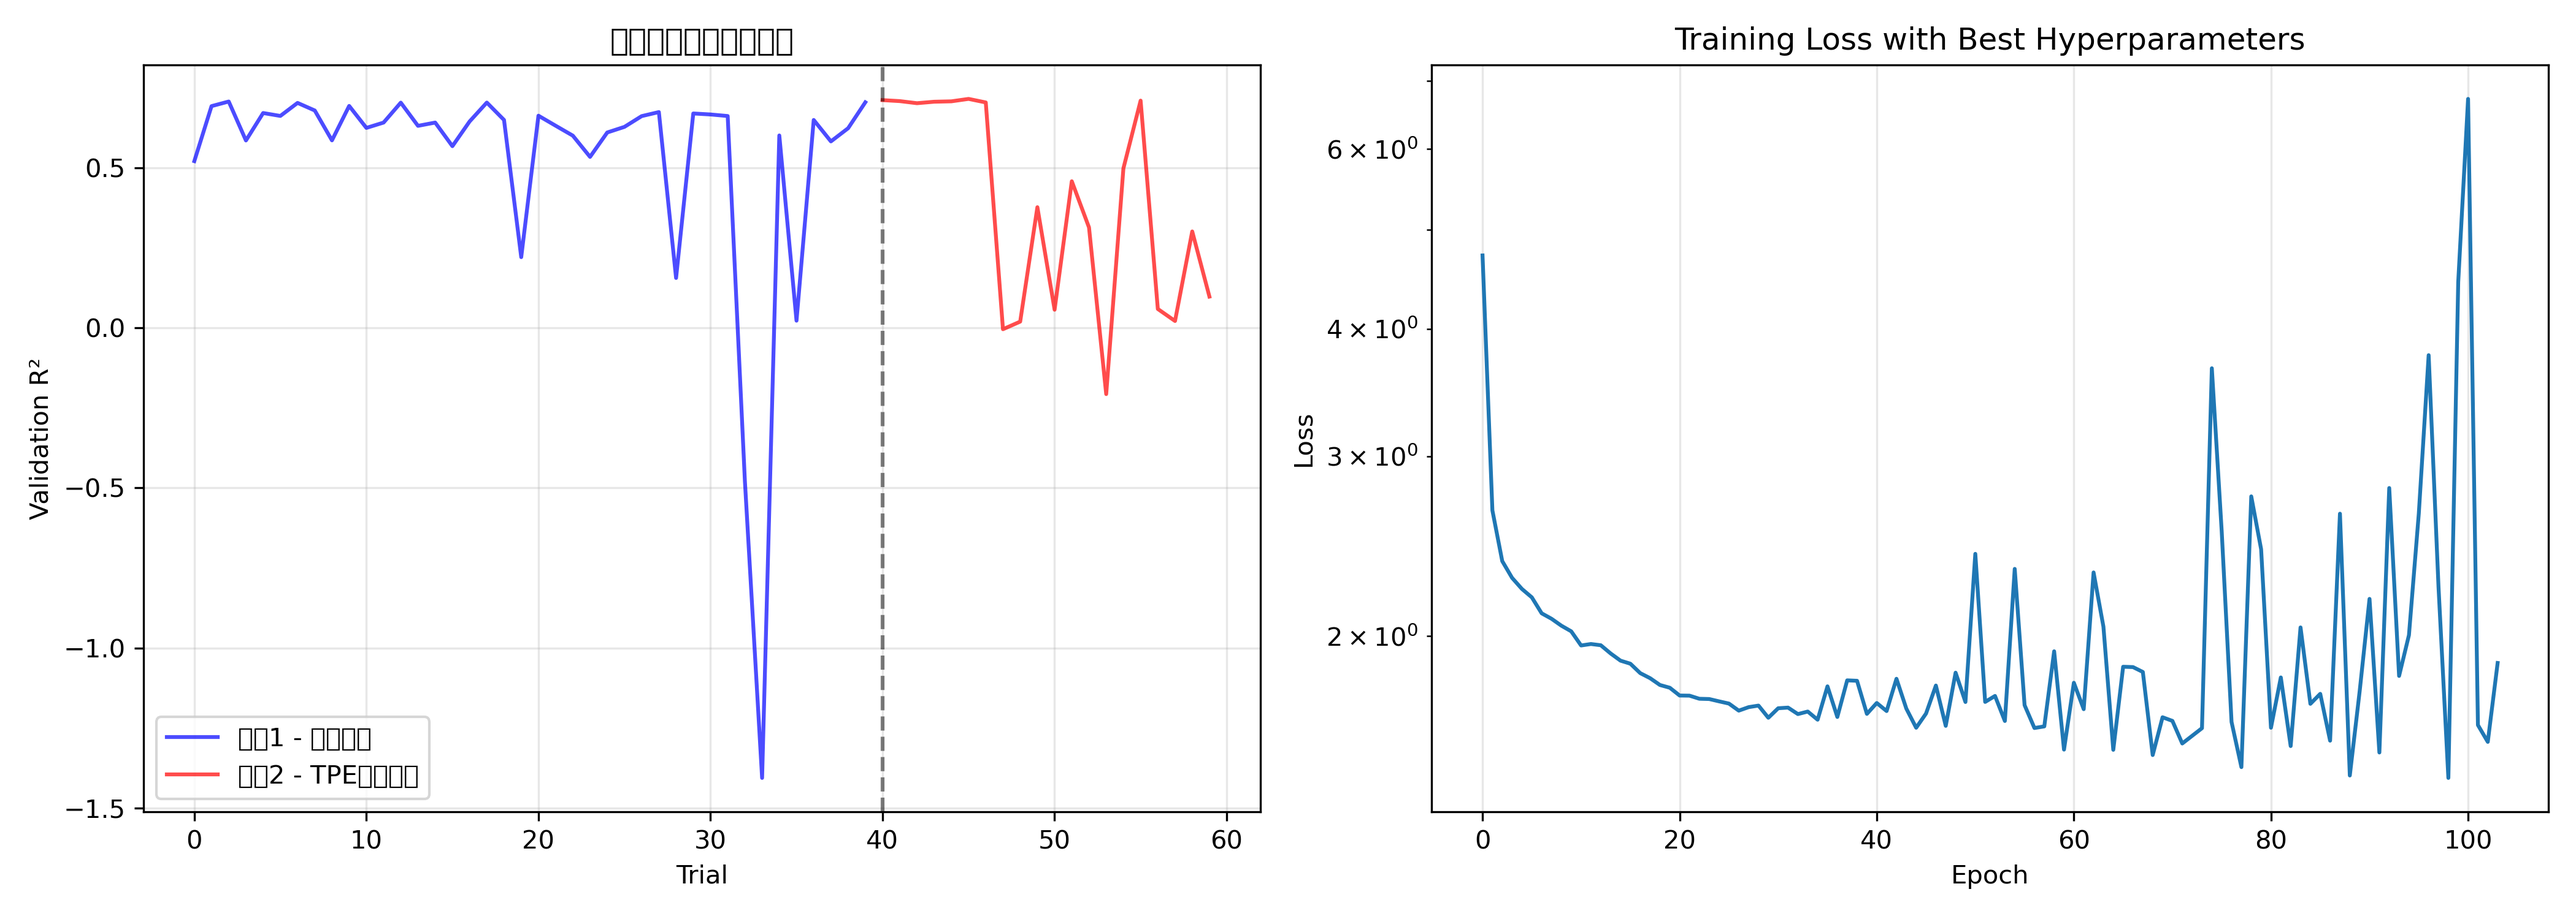
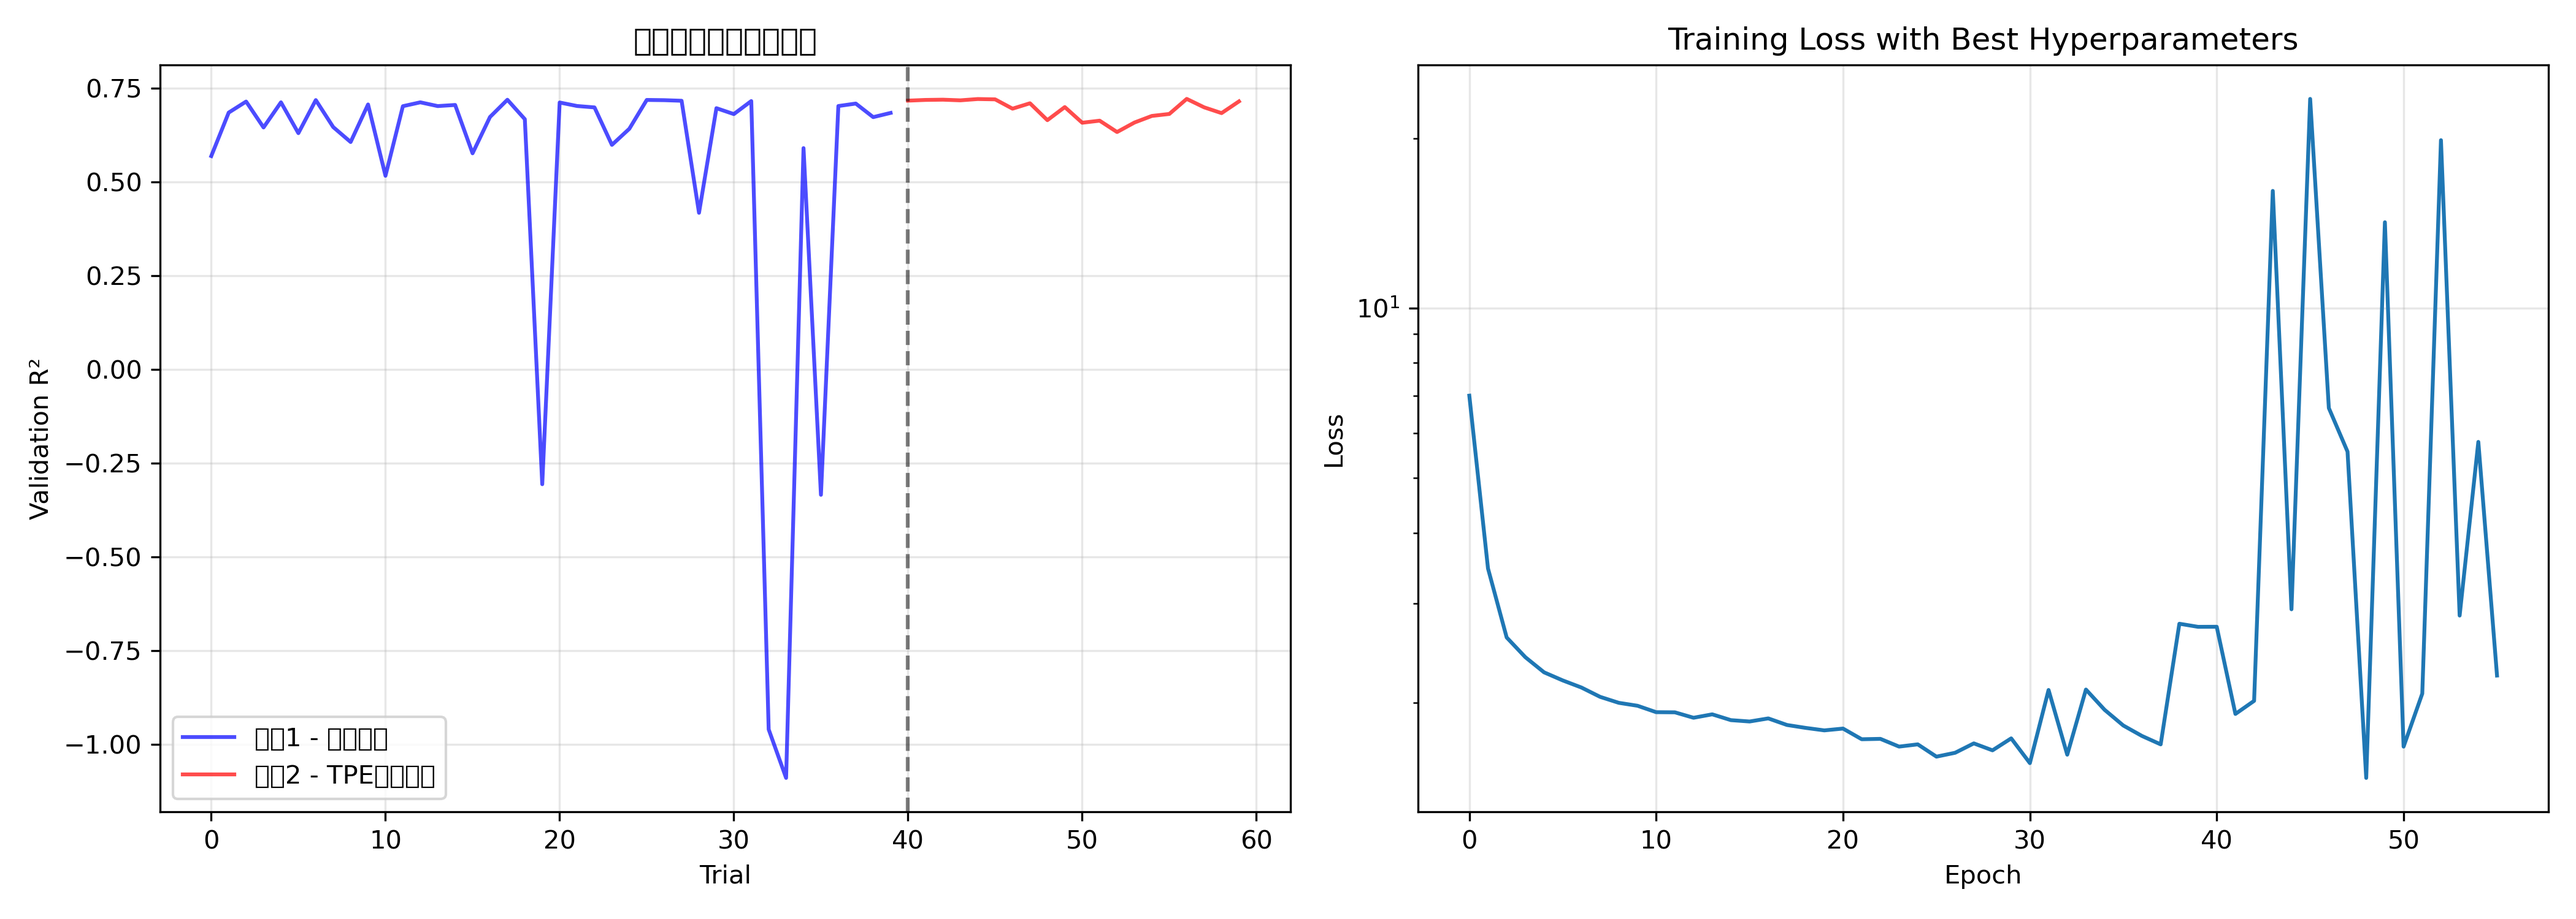
门控加权组合0.72

diff --git a/new_pgnn/test.py b/new_pgnn/test.py
@@ -37,20 +37,20 @@ if torch.cuda.is_available():
 PARAMS = {
     # 模型架构参数
     "material_embed_dim": 8,     # 材料嵌入维度
-    "latent_dim": 16,            # 隐藏层维度
-    "dropout_rate": 0.4,         # Dropout率
+    "latent_dim": 48,            # 隐藏层维度
+    "dropout_rate": 0.35,        # Dropout率
     "symbolic_type": "advanced",  # 符号层类型，可选: "lightweight", "improved", "advanced"等
 
     # 训练参数
-    "epochs": 300,               # 训练轮数
+    "epochs": 350,               # 训练轮数
     "batch_size": 16,            # 批次大小
-    "lr": 0.0018568988385351992, # 学习率
-    "patience": 60,              # 早停参数
-    "augmentation": True,        # 是否使用数据增强
+    "lr": 0.0011173842752625436, # 学习率
+    "patience": 55,              # 早停参数
+    "augmentation": False,       # 是否使用数据增强
     "optimizer": "AdamW",        # 优化器
-    "weight_decay": 0.005758576456620779,      # 权重衰减
-    "lambda_complexity": 3.0143649044331185e-05,  # 复杂度损失权重
-    "lambda_physics": 0.35       # 物理损失权重
+    "weight_decay": 0.0066923795400554925,      # 权重衰减
+    "lambda_complexity": 3.4069890537972935e-05,  # 复杂度损失权重
+    "lambda_physics": 0.2        # 物理损失权重
 }
 
 
@@ -244,6 +244,13 @@ def train_with_fixed_params(params, data_path=DATA_PATH, seed=SEED):
             # 每10个epoch打印一次进度
             if epoch % 10 == 0 or epoch == epochs - 1:
                 print(f"Epoch {epoch+1}/{epochs} - 训练损失: {epoch_loss:.4f}, 验证损失: {val_loss.item():.4f}, 验证R²: {val_r2:.4f}, 验证RMSE: {val_rmse:.4f}")
+                
+                # 门控监控
+                if hasattr(model, 'get_gate_statistics'):
+                    gate_stats = model.get_gate_statistics()
+                    print(f"         门控统计 - 平均值: {gate_stats['mean']:.3f}, "
+                          f"标准差: {gate_stats['std']:.3f}, "
+                          f"符号层权重: {gate_stats['symbolic_weight']:.3f}")
         
         # 早停检查
         if val_r2 > best_val_r2:
@@ -285,6 +292,22 @@ def train_with_fixed_params(params, data_path=DATA_PATH, seed=SEED):
         print(f"测试集 R²: {test_r2:.4f}")
         print(f"测试集 RMSE: {test_rmse:.4f}")
         print(f"测试集 MAE: {test_mae:.4f}")
+        
+        # 门控融合分析
+        if hasattr(model, 'get_fusion_interpretation'):
+            print(f"\n门控融合分析:")
+            print(model.get_fusion_interpretation())
+            
+            gate_stats = model.get_gate_statistics()
+            print(f"门控详细统计: 平均={gate_stats['mean']:.3f}, "
+                  f"最小={gate_stats['min']:.3f}, 最大={gate_stats['max']:.3f}")
+        
+        # 符号层可解释性分析（如果支持）
+        if hasattr(model, 'get_symbolic_interpretation'):
+            print(f"\n符号层可解释性分析:")
+            interp = model.get_symbolic_interpretation()
+            if 'complexity' in interp:
+                print(f"符号表达式复杂度: {interp['complexity']:.4f}")
     
     # 可视化训练过程
     print("\n生成训练过程可视化...")
@@ -313,6 +336,32 @@ def train_with_fixed_params(params, data_path=DATA_PATH, seed=SEED):
     plt.tight_layout()
     plt.savefig("results/training_plots.png")
     plt.close()
+    
+    # 门控权重可视化（如果模型支持）
+    if hasattr(model, 'last_gate') and model.last_gate is not None:
+        plt.figure(figsize=(10, 6))
+        gate_values = model.last_gate.cpu().detach().numpy().flatten()
+        
+        plt.subplot(1, 2, 1)
+        plt.hist(gate_values, bins=30, alpha=0.7, edgecolor='black')
+        plt.xlabel('门控权重值')
+        plt.ylabel('频次')
+        plt.title('门控权重分布')
+        plt.axvline(x=0.5, color='r', linestyle='--', label='平衡点 (0.5)')
+        plt.legend()
+        
+        plt.subplot(1, 2, 2)
+        plt.plot(gate_values[:50], 'o-', alpha=0.7)  # 显示前50个样本
+        plt.xlabel('样本索引')
+        plt.ylabel('门控权重')
+        plt.title('门控权重示例 (前50个样本)')
+        plt.axhline(y=0.5, color='r', linestyle='--', label='平衡点')
+        plt.legend()
+        
+        plt.tight_layout()
+        plt.savefig("results/gate_analysis.png")
+        plt.close()
+        print("门控分析图已保存至 results/gate_analysis.png")
     
     # 预测可视化
     plt.figure(figsize=(10, 8))
@@ -477,6 +526,11 @@ def load_model_and_predict(model_path, data_path=DATA_PATH, new_data_path=None):
         print(f"测试集 R²: {test_r2:.4f}")
         print(f"测试集 RMSE: {test_rmse:.4f}")
         print(f"测试集 MAE: {test_mae:.4f}")
+        
+        # 门控融合分析
+        if hasattr(model, 'get_fusion_interpretation'):
+            print(f"\n门控融合分析:")
+            print(model.get_fusion_interpretation())
     
     # 如果提供了新数据路径，对新数据进行预测
     if new_data_path:

diff --git a/new_pgnn/models.py b/new_pgnn/models.py
@@ -779,6 +779,24 @@ class MaterialCrackPGNN(nn.Module):
             nn.Linear(32, 1),
         )
 
+        # 新增：符号输出对齐网络（学习最佳的scale和bias）
+        self.sym_scale_net = nn.Sequential(
+            nn.Linear(latent_dim, 16),
+            nn.GELU(),
+            nn.Linear(16, 2)  # 输出 [scale_raw, bias_raw]
+        )
+        
+        # 新增：融合门控网络（决定符号层vs残差的权重）
+        self.fusion_gate = nn.Sequential(
+            nn.Linear(latent_dim, 16),
+            nn.GELU(),
+            nn.Linear(16, 1),
+            nn.Sigmoid()  # gate ∈ (0,1)
+        )
+        
+        # 记录最近一次的门控值（用于可解释性分析）
+        self.last_gate = None
+
         # 不确定性预测 - 分离认知不确定性和随机不确定性
         self.aleatoric_net = nn.Sequential(
             nn.Linear(latent_dim, 32),
@@ -858,13 +876,31 @@ class MaterialCrackPGNN(nn.Module):
             # 符号层失败时提供安全的回退值
             symbolic_output = torch.zeros(z.size(0), 1, device=z.device)
 
-        # 残差网络输入：符号层输出与潜在表示，切断梯度
-        sym_detached = symbolic_output.detach()
-        residual_input = torch.cat([z, sym_detached], dim=-1)
+        # 新增：符号输出对齐（学习最佳的幅值缩放和偏置）
+        scale_bias = self.sym_scale_net(z)
+        scale_raw = scale_bias[:, 0:1]
+        bias_raw = scale_bias[:, 1:2]
+        
+        # 使用exp确保scale为正，用tanh限制bias范围
+        scale = torch.exp(scale_raw * 0.5)  # scale ∈ (0, ∞)，但通常在(0.6, 1.6)范围
+        bias = torch.tanh(bias_raw) * 0.5   # bias ∈ (-0.5, 0.5)
+        
+        # 对齐符号输出
+        symbolic_aligned = scale * symbolic_output + bias
+
+        # 新增：计算融合门控
+        gate = self.fusion_gate(z)  # gate ∈ (0,1)
+        self.last_gate = gate.detach().clone()  # 保存用于分析
+        
+        # 修改：残差网络输入 - 移除detach()，让梯度双向流动
+        residual_input = torch.cat([z, symbolic_output], dim=-1)  # 不再使用sym_detached
         residual_output = self.residual_net(residual_input)
 
-        # 组合预测（非负）
-        prediction = F.softplus(symbolic_output + residual_output, beta=5) + 1e-3
+        # 新增：门控加权融合（这是核心改进）
+        prediction = gate * symbolic_aligned + (1 - gate) * residual_output
+        
+        # 应用激活函数确保非负
+        prediction = F.softplus(prediction, beta=5) + 1e-3
 
         # 不确定性估计 - 随机不确定性
         log_var = self.aleatoric_net(z).clamp(-10, 6)
@@ -923,3 +959,46 @@ class MaterialCrackPGNN(nn.Module):
         else:
             print("使用的是简化符号层，没有注意力权重可视化")
             return None
+    def get_fusion_interpretation(self):
+        """分析融合门的行为"""
+        if self.last_gate is None:
+            return "模型尚未进行前向传播"
+        
+        stats = self.get_gate_statistics()
+        mean_gate = stats['mean']
+        
+        if mean_gate > 0.7:
+            return f"模型强烈依赖符号层（物理先验主导），平均信任度: {mean_gate:.2f}"
+        elif mean_gate > 0.5:
+            return f"模型偏向符号层，但残差仍有贡献，平均信任度: {mean_gate:.2f}"
+        elif mean_gate > 0.3:
+            return f"模型在符号层和残差之间较好平衡，平均信任度: {mean_gate:.2f}"
+        else:
+            return f"模型更依赖残差网络（数据驱动为主），平均信任度: {mean_gate:.2f}"
+    
+    def get_gate_statistics(self):
+        """获取门控统计信息"""
+        if self.last_gate is None:
+            return {
+                'mean': 0.5,
+                'std': 0.0,
+                'min': 0.5,
+                'max': 0.5,
+                'symbolic_weight': 0.5,
+                'residual_weight': 0.5
+            }
+        
+        gate = self.last_gate
+        mean_gate = float(gate.mean().item())
+        std_gate = float(gate.std().item())
+        min_gate = float(gate.min().item())
+        max_gate = float(gate.max().item())
+        
+        return {
+            'mean': mean_gate,
+            'std': std_gate,
+            'min': min_gate,
+            'max': max_gate,
+            'symbolic_weight': mean_gate,
+            'residual_weight': 1.0 - mean_gate
+        }

diff --git a/new_pgnn/train_hyperopt.py b/new_pgnn/train_hyperopt.py
@@ -338,6 +338,13 @@ def train_with_trial(trial, train_data, val_data, num_materials, device="cuda",
 
             val_r2 = r2_score(val_target_np, val_pred_np)
             # val_rmse = np.sqrt(mean_squared_error(val_target_np, val_pred_np))
+            
+            # 门控监控（每10个epoch打印一次）
+            if epoch % 10 == 0 and hasattr(model, 'get_gate_statistics'):
+                gate_stats = model.get_gate_statistics()
+                print(f"Epoch {epoch}: Gate Mean: {gate_stats['mean']:.3f}, "
+                      f"Std: {gate_stats['std']:.3f}, "
+                      f"Symbolic Weight: {gate_stats['symbolic_weight']:.3f}")
 
         # 早停检查
         if val_r2 > best_val_r2:
@@ -883,6 +890,12 @@ def retrain_with_best_params(
             print(
                 f"Epoch {epoch+1}: LR={current_lr:.6f}, Test R²={test_r2:.4f}, RMSE={test_rmse:.4f}"
             )
+            # 门控监控
+            if hasattr(model, 'get_gate_statistics'):
+                gate_stats = model.get_gate_statistics()
+                print(f"         Gate Mean: {gate_stats['mean']:.3f}, "
+                      f"Std: {gate_stats['std']:.3f}, "
+                      f"Symbolic Weight: {gate_stats['symbolic_weight']:.3f}")
 
         if test_r2 > best_test_r2:
             best_test_r2 = test_r2

diff --git a/new_pgnn/losses.py b/new_pgnn/losses.py
@@ -49,11 +49,26 @@ class PhysicsInformedLoss(nn.Module):
         physics_loss = self.compute_physics_constraints(pred, numeric_features)
         physics_weight = self.get_physics_weight()
 
+        # 4. 新增：门控正则化（鼓励合理的融合行为）
+        gate_reg_loss = 0.0
+        if hasattr(model, 'last_gate') and model.last_gate is not None:
+            gate = model.last_gate
+            
+            # 鼓励门控偏向符号层（但不强制）
+            gate_bias_loss = F.binary_cross_entropy(
+                gate, torch.full_like(gate, 0.7), reduction='mean'
+            ) * 1e-3
+            
+            gate_reg_loss = gate_bias_loss
+        else:
+            gate_reg_loss = torch.tensor(0.0, device=pred.device)
+
         # 总损失
         total_loss = (
             nll_loss
             + self.lambda_complexity * complexity_loss
             + physics_weight * physics_loss
+            + gate_reg_loss
         )
 
         return total_loss, {
@@ -65,6 +80,7 @@ class PhysicsInformedLoss(nn.Module):
             ),
             "physics": physics_loss.item(),
             "physics_weight": physics_weight,
+            "gate_reg": gate_reg_loss.item() if torch.is_tensor(gate_reg_loss) else gate_reg_loss,
             "total": total_loss.item(),
         }
 
